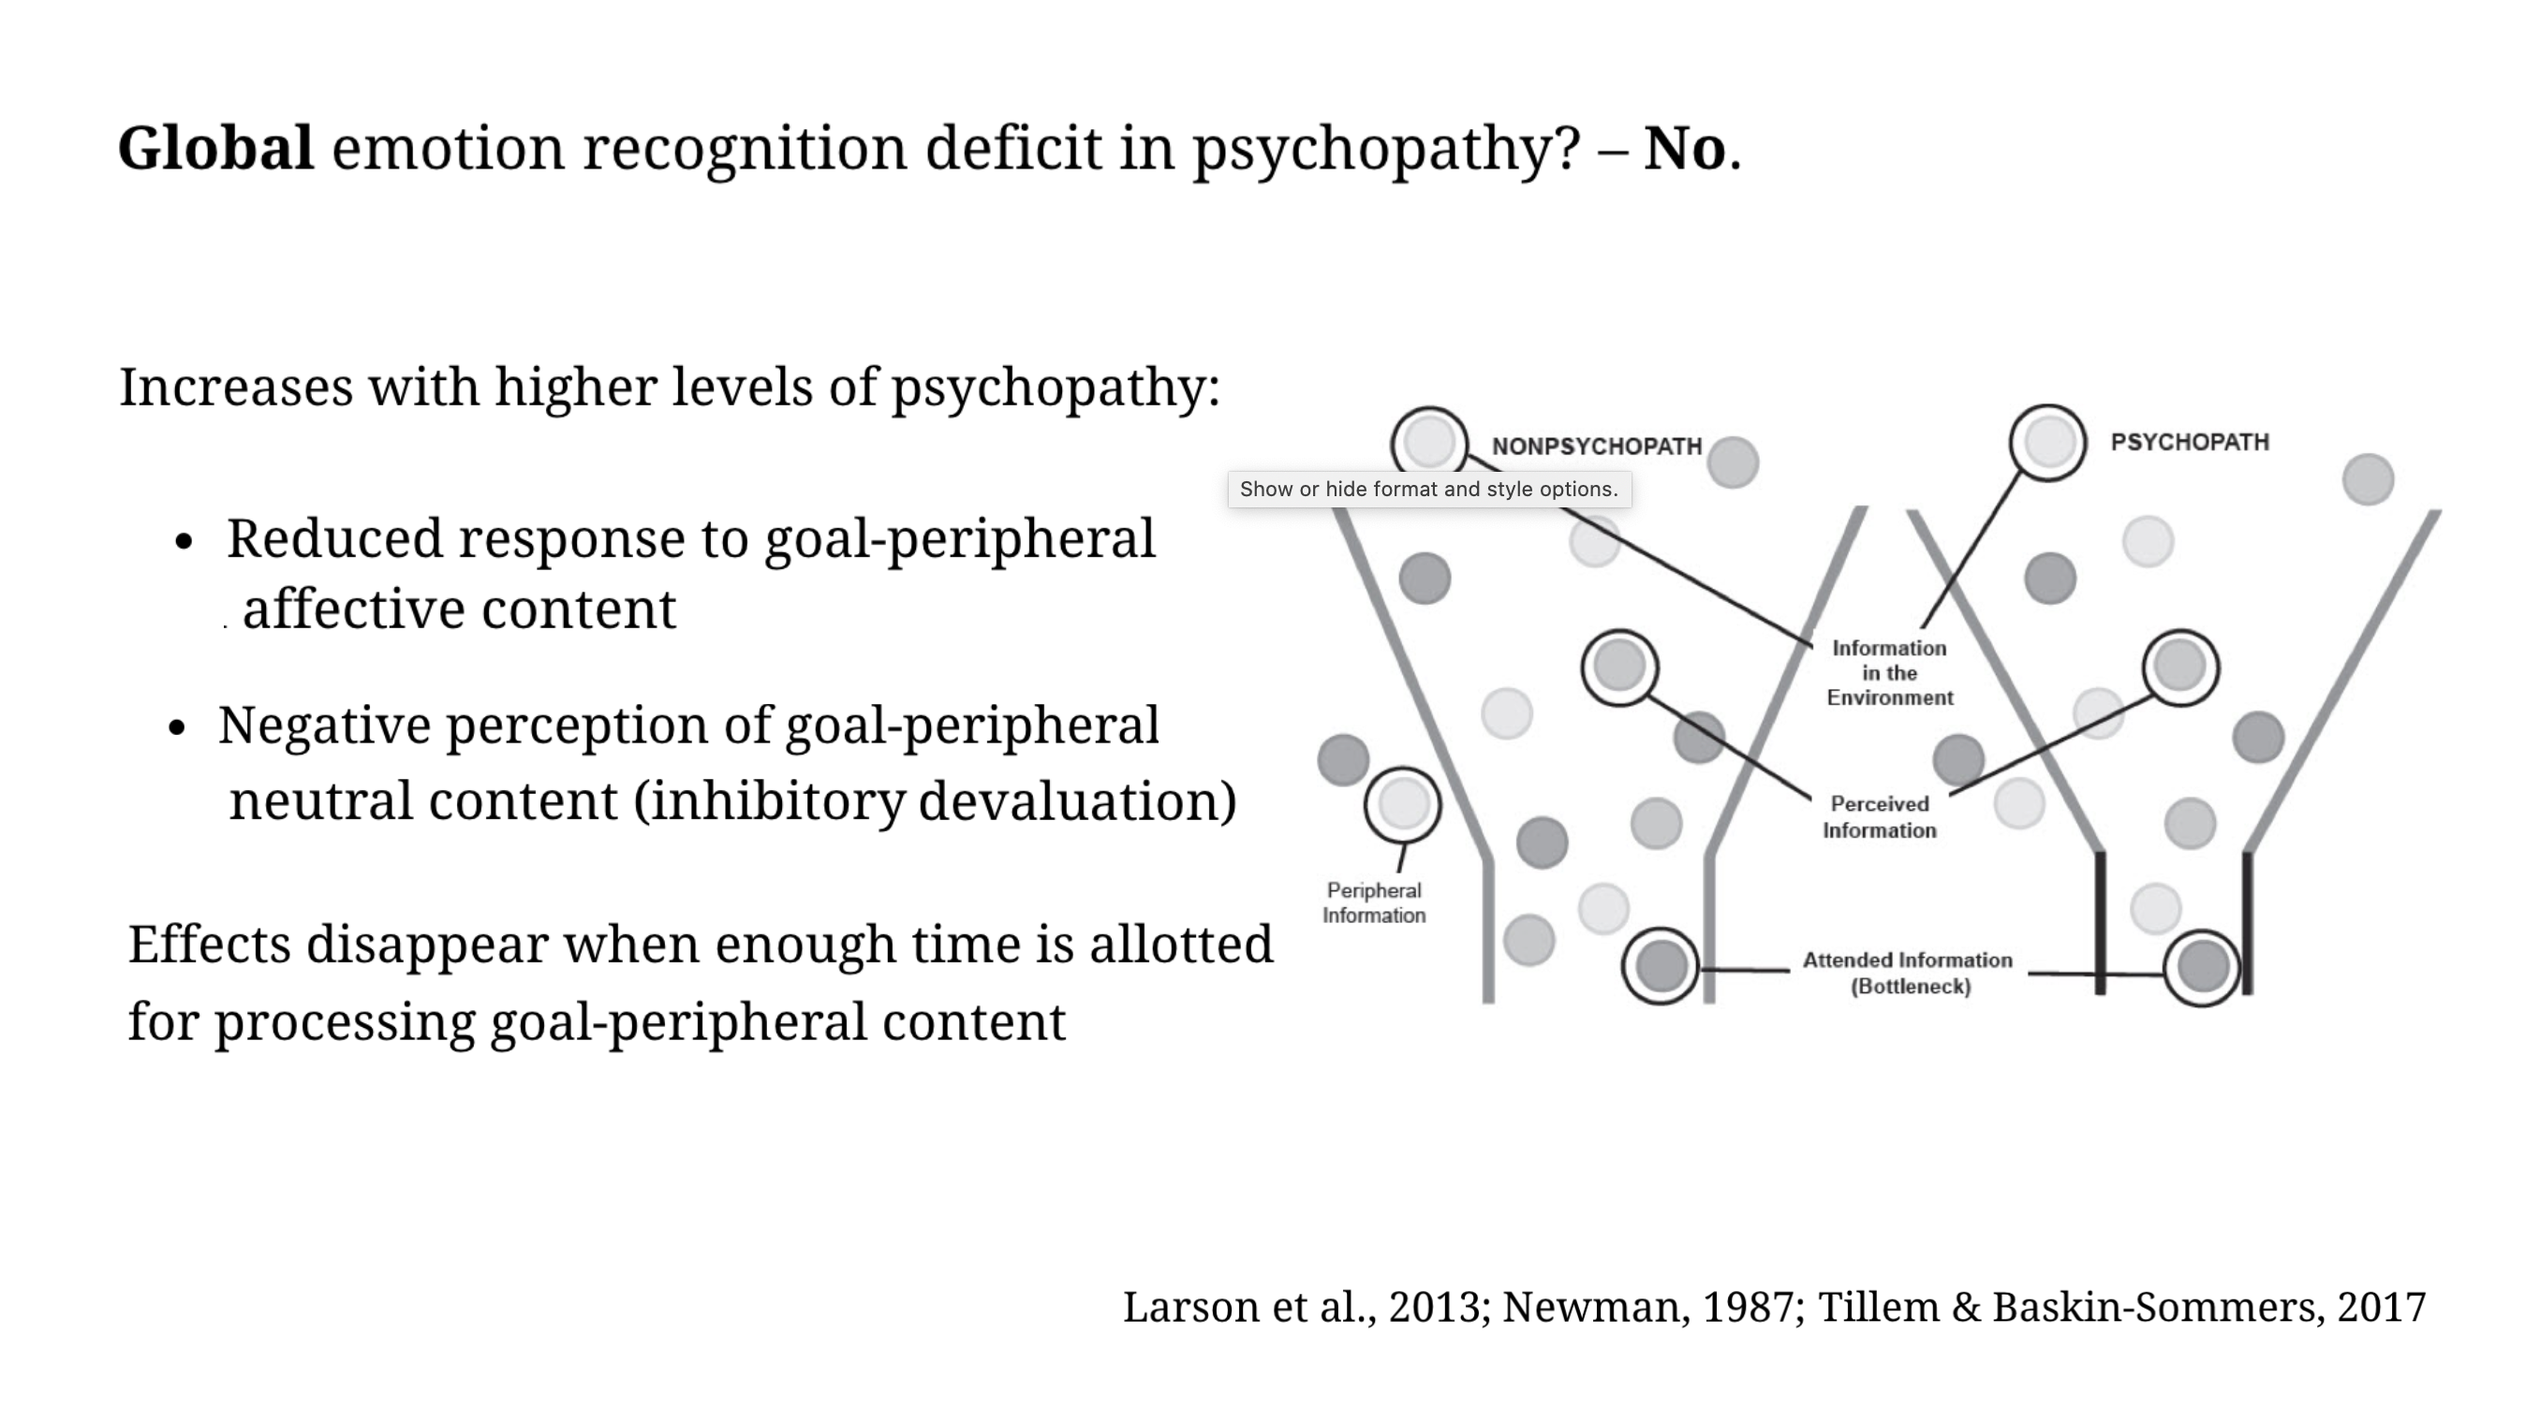
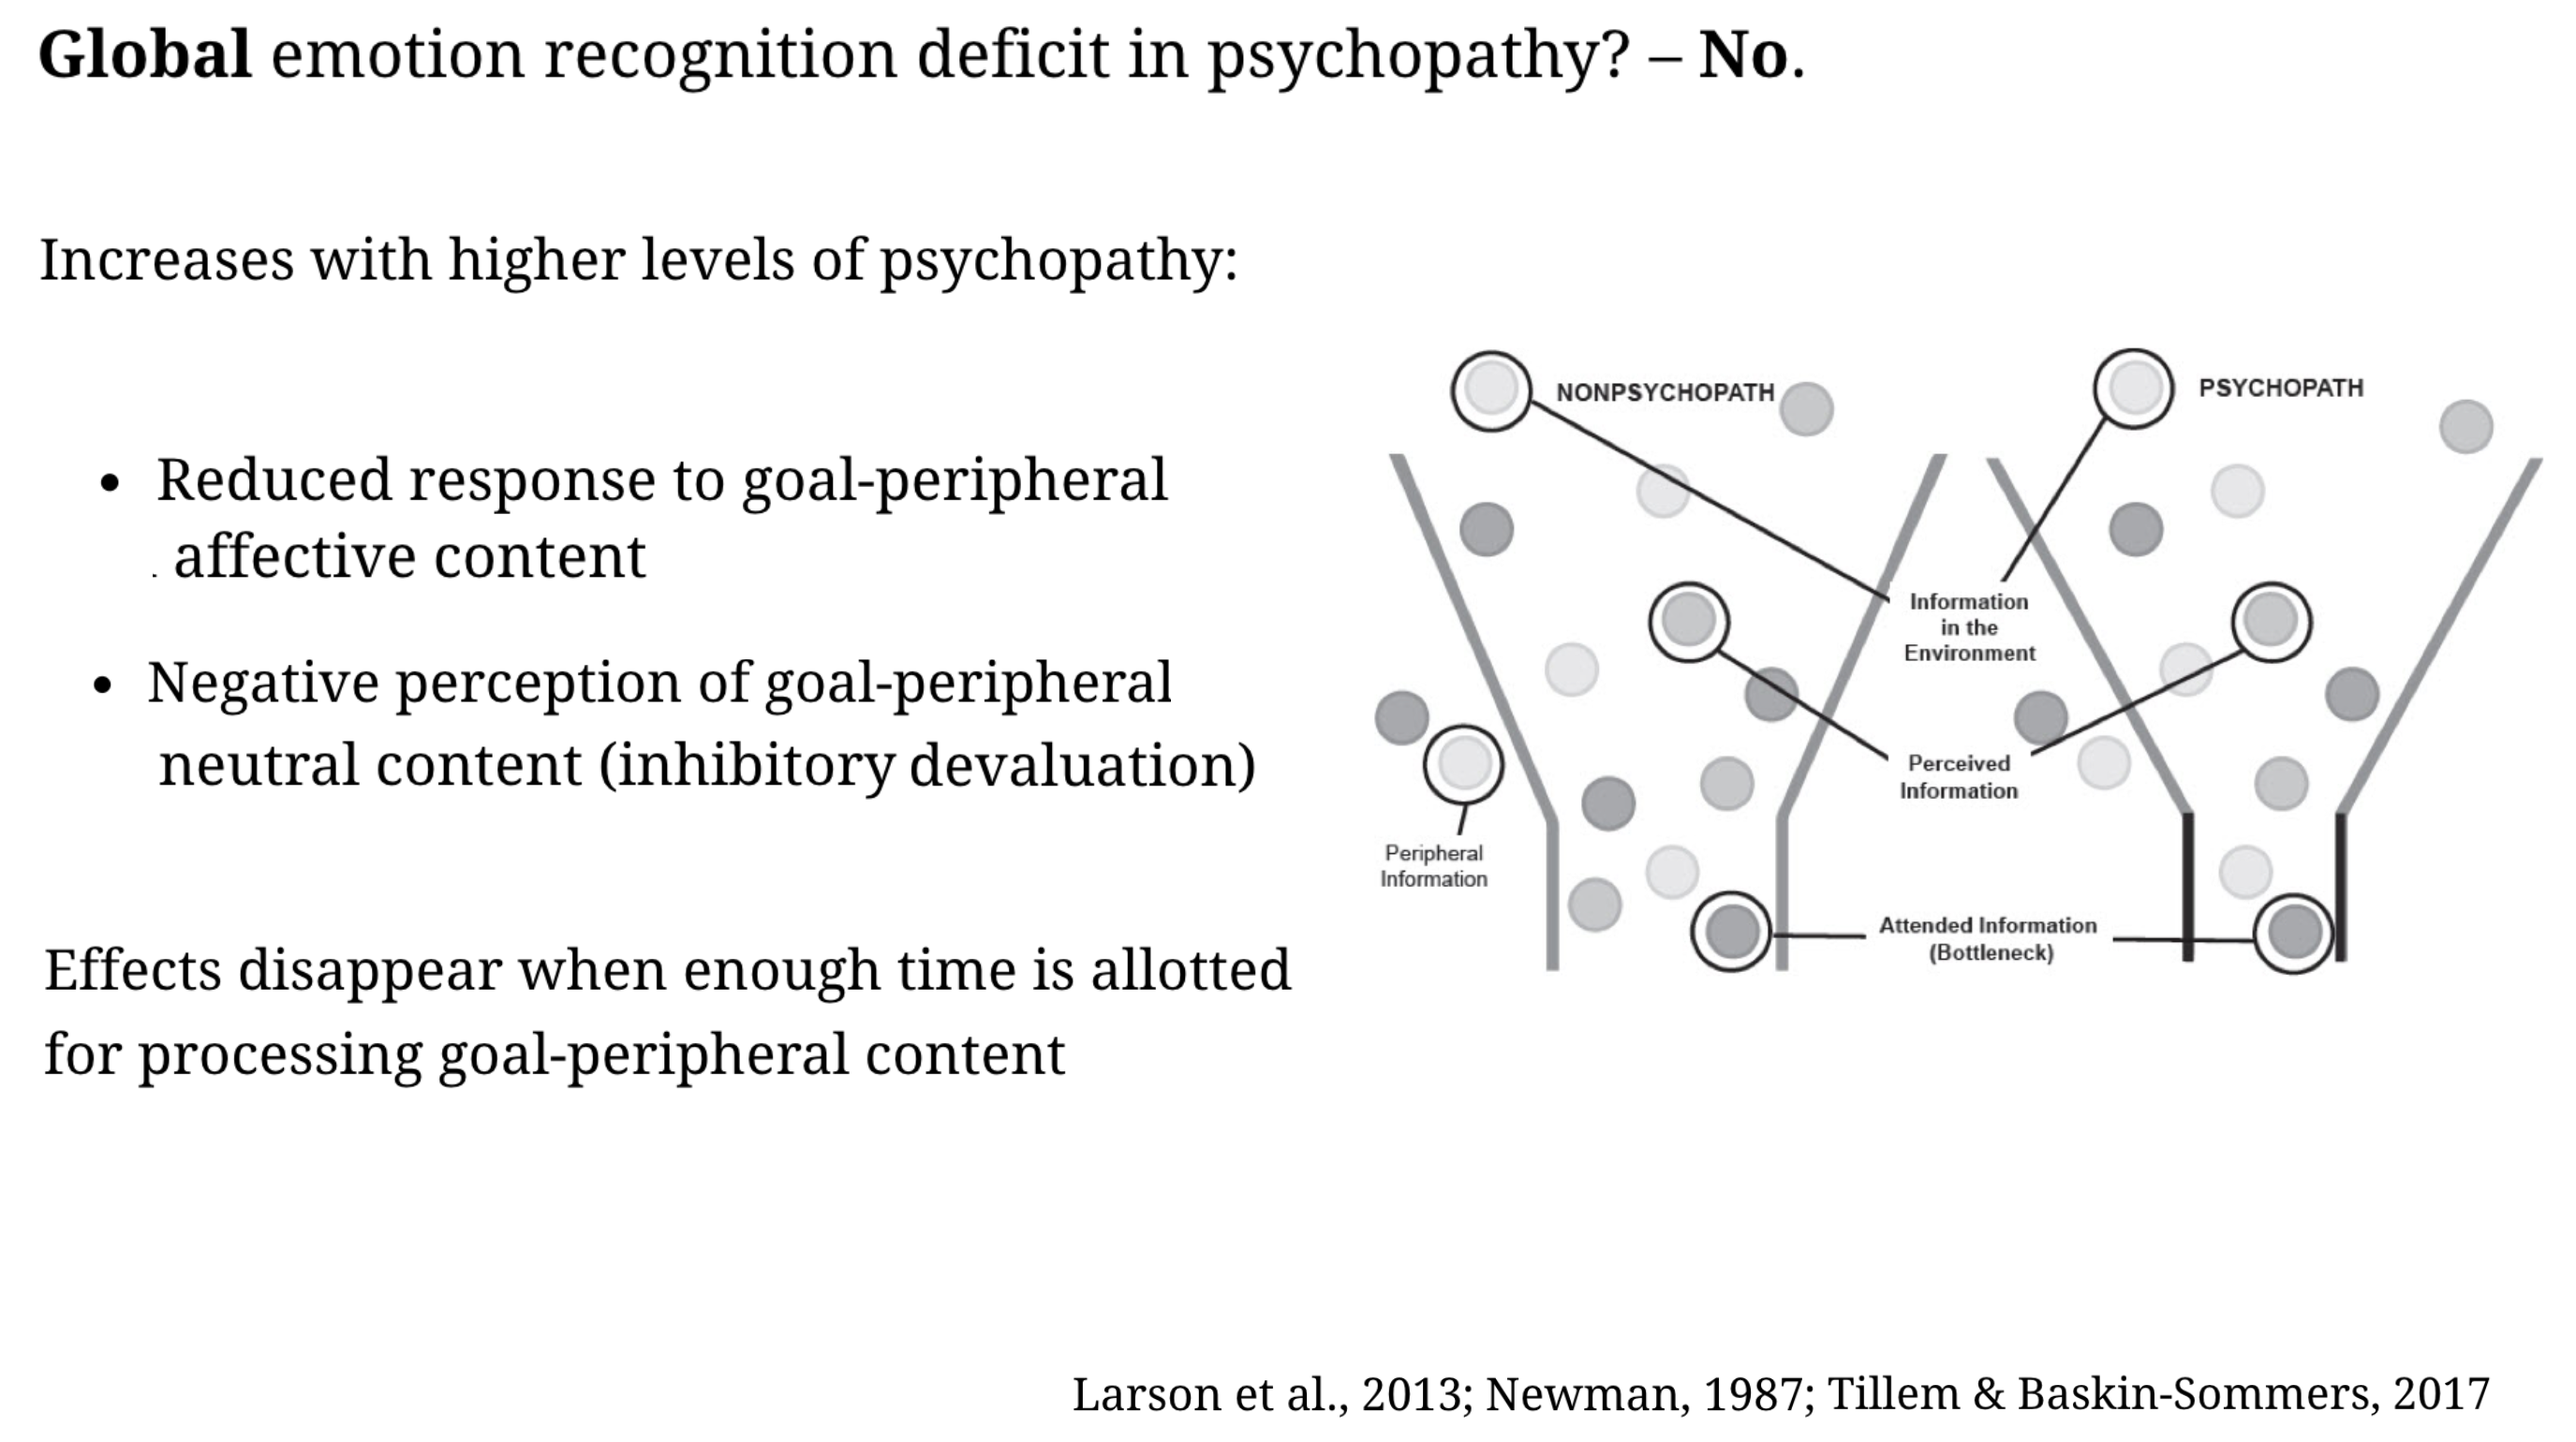
Update

diff --git a/Defense/Defense.html b/Defense/Defense.html
@@ -112,14 +112,13 @@ li:not(:last-child) {
 
 ## Psychopathy and Emotion Perception 
 
-![bottleneck](https://raw.githubusercontent.com/carolinelee78/Honors-Thesis/main/Defense/ab.png)
+![ab1](https://raw.githubusercontent.com/carolinelee78/Honors-Thesis/main/Defense/ab.png)
 
 ---
 
 ## Psychopathy and emotion perception 
 
-Effects disappear when enough time is allotted &lt;br&gt; &lt;br&gt; 
-for processing goal-peripheral content 
+![ab2](https://raw.githubusercontent.com/carolinelee78/Honors-Thesis/main/Defense/ab2.png)
 
 ---
 
@@ -143,7 +142,6 @@ for processing goal-peripheral content
 
 ## Hypotheses 
 
- .content-box-yellow[`.content-box-yellow[]`]
 
 ---
 
